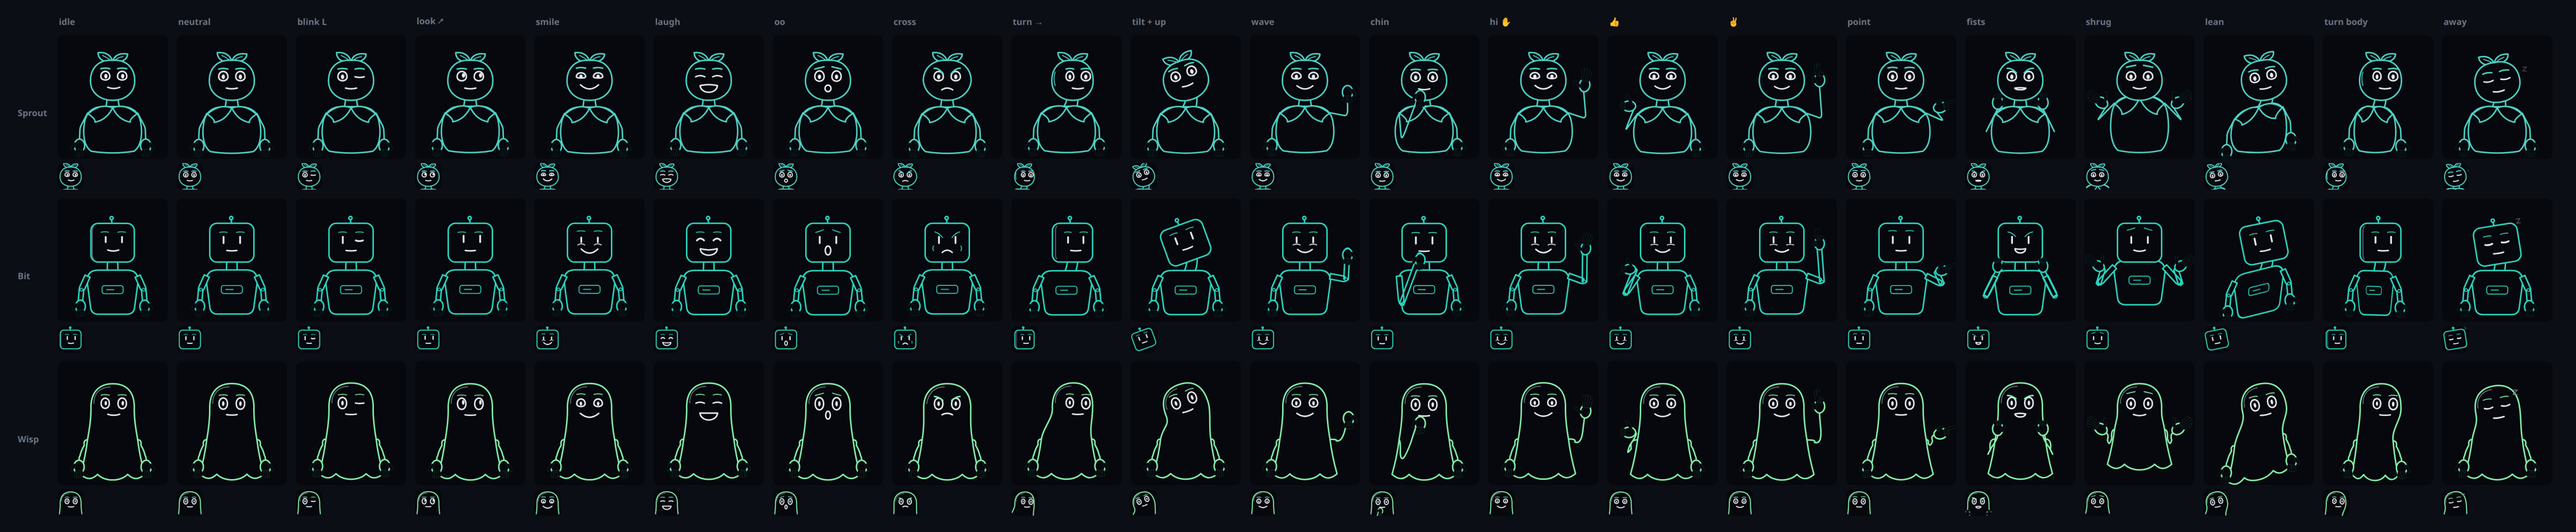
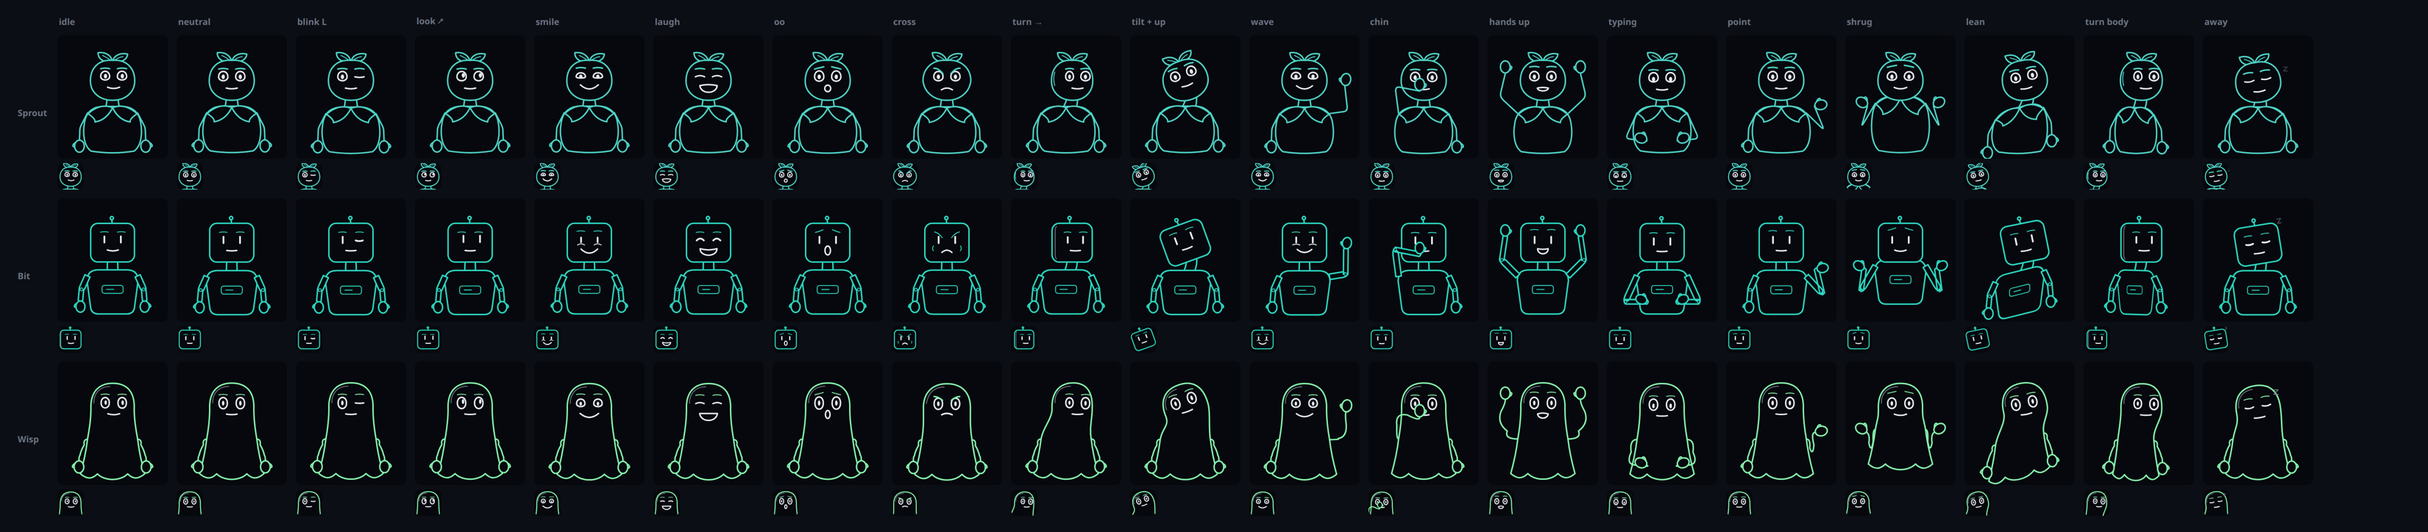
S44: hands are just hands; elbows come from the wrists
Hands drop their fingers: the hand landmarker says where a hand is and
which way it points (1 byte a hand, down from 6), drawn as a shared
mitten. At tile size a hand being there is what reads.

A desk camera mostly sees hands and seldom elbows, and the solver threw
away any wrist without its elbow, so arms rested at the sides. Now a
wrist counts on its own (from the pose or the hand landmarker), and the
stage puts a missing elbow where a two-bone arm would bend, outward and
down (rig's elbowFor/withElbows). The sheet's arm poses give wrists only.

diff --git a/web/src/shared/avatar/rig.ts b/web/src/shared/avatar/rig.ts
@@ -15,9 +15,10 @@
 //   face    = 12 × u8 (0–255 for 0–1; lookX, lookY as i8 for −1–1)
 //   arms    = 4 points (elbowL, elbowR, wristL, wristR) × x:i8 y:i8 (1/25
 //             shoulder), sent when flags & ARMS; a point at (−128, −128)
-//             wasn't seen
-//   hand    = angle:i8 (π/127) curl:5 × u8 (thumb … pinky), for the left
-//             hand when flags & HAND_L, then the right when flags & HAND_R
+//             wasn't seen (an elbow mostly isn't, at a desk: `withElbows`
+//             puts it where the arm would bend)
+//   hand    = angle:i8 (π/127), for the left hand when flags & HAND_L,
+//             then the right when flags & HAND_R
 //   shoulders = shoulderL, shoulderR × x:i8 y:i8 (1/25 shoulder), when
 //             flags & SHOULDERS
 // flags: FACE (a face was found), ARMS, HAND_L, HAND_R, SHOULDERS.
@@ -31,13 +32,12 @@ const SHOULDERS = 16;
 
 export type Point = [number, number] | null;
 
-/** A hand, as a character draws it at the wrist. */
+/** A hand, as a character draws it at the wrist: no fingers, just which
+ * way it points. */
 export interface Hand {
-  /** Which way the hand points, wrist to knuckles: radians in bust space
-   * (0 toward +x, the viewer's right; −π/2 straight up). */
+  /** Wrist to knuckles: radians in bust space (0 toward +x, the viewer's
+   * right; −π/2 straight up). */
   angle: number;
-  /** Each finger's curl, thumb to pinky: 0 straight out, 1 folded in. */
-  curl: [number, number, number, number, number];
 }
 
 export interface Rig {
@@ -127,7 +127,7 @@ export function packRig(r: Rig, look: Look): Uint8Array {
       out.push(...(p ? [i8(p[0] * 25), i8(p[1] * 25)] : [0x80, 0x80]));
     }
   }
-  for (const h of [r.handL, r.handR]) if (h) out.push(i8((wrap(h.angle) * 127) / Math.PI), ...h.curl.map(u8));
+  for (const h of [r.handL, r.handR]) if (h) out.push(i8((wrap(h.angle) * 127) / Math.PI));
   if (shoulders) for (const p of [r.shoulderL!, r.shoulderR!]) out.push(i8(p[0] * 25), i8(p[1] * 25));
   return Uint8Array.from(out);
 }
@@ -152,10 +152,8 @@ export function unpackRig(b: Uint8Array): { rig: Rig; look: Look } {
     }
   }
   const hand = (): Hand => {
-    if (b.length < p + 6) throw new Error("rig frame: cut short");
-    const angle = (s8(b[p++]) * Math.PI) / 127;
-    const curl = [0, 0, 0, 0, 0].map(() => b[p++] / 255) as Hand["curl"];
-    return { angle, curl };
+    if (b.length < p + 1) throw new Error("rig frame: cut short");
+    return { angle: (s8(b[p++]) * Math.PI) / 127 };
   };
   if (flags & HAND_L) r.handL = hand();
   if (flags & HAND_R) r.handR = hand();
@@ -208,7 +206,36 @@ export function approach(cur: Rig, want: Rig, dt: number, rate = 14): Rig {
   }
   for (const key of ["handL", "handR"] as const) {
     const a = cur[key], b = want[key];
-    out[key] = a && b ? { angle: a.angle + wrap(b.angle - a.angle) * k, curl: a.curl.map((c, i) => c + (b.curl[i] - c) * k) as Hand["curl"] } : b;
+    out[key] = a && b ? { angle: a.angle + wrap(b.angle - a.angle) * k } : b;
   }
+  return out;
+}
+
+/** An arm's upper and lower lengths, in shoulder widths. */
+const UPPER = 0.55, LOWER = 0.5;
+
+/** Where an elbow goes for a shoulder and a wrist: two bones of fixed
+ * length, bent outward and down as an arm bends (`side` +1 for the
+ * person's left, on +x). A wrist out of reach straightens the arm toward
+ * it. */
+export function elbowFor(shoulder: [number, number], wrist: [number, number], side: 1 | -1): [number, number] {
+  const dx = wrist[0] - shoulder[0], dy = wrist[1] - shoulder[1];
+  const d = Math.min(UPPER + LOWER - 1e-3, Math.max(Math.abs(UPPER - LOWER) + 1e-3, Math.hypot(dx, dy) || 1e-3));
+  const base = Math.atan2(dy, dx);
+  const bend = Math.acos((UPPER * UPPER + d * d - LOWER * LOWER) / (2 * UPPER * d));
+  const at = (a: number): [number, number] => [shoulder[0] + Math.cos(a) * UPPER, shoulder[1] + Math.sin(a) * UPPER];
+  const a = at(base + bend), b = at(base - bend);
+  // Outward first, then down.
+  const score = (e: [number, number]) => side * (e[0] - shoulder[0]) + 0.6 * (e[1] - shoulder[1]);
+  return score(a) >= score(b) ? a : b;
+}
+
+/** `r` with an elbow wherever there's a wrist but no elbow: the camera
+ * at a desk sees hands far more often than elbows. */
+export function withElbows(r: Rig): Rig {
+  if ((r.elbowL || !r.wristL) && (r.elbowR || !r.wristR)) return r;
+  const out = { ...r };
+  if (!r.elbowL && r.wristL) out.elbowL = elbowFor(r.shoulderL ?? SHOULDER_L, r.wristL, 1);
+  if (!r.elbowR && r.wristR) out.elbowR = elbowFor(r.shoulderR ?? SHOULDER_R, r.wristR, -1);
   return out;
 }

diff --git a/web/src/shared/avatar/hand.ts b/web/src/shared/avatar/hand.ts
@@ -1,89 +1,43 @@
-// A cartoon hand for any character (S44): a palm at the wrist, pointing
-// along the hand's angle, five fingers each shortened by its curl (a front
-// view: a curled finger folds toward you), the thumb on the side toward
-// the body's middle, as a raised palm shows it. With no hand seen, a
-// resting mitten pointing down. Drawn in bust space with the caller's
-// stroke and colours; a character picks a style that suits it.
+// A cartoon hand for any character (S44): a mitten at the wrist, pointing
+// the way the hand points, with a thumb on the side toward the body's
+// middle, as a raised palm shows it. No fingers: at tile size a hand
+// being there, and where, is what reads. With no hand seen, it rests
+// pointing down. Drawn in bust space with the caller's stroke and colours.
 
 import type { Hand } from "./rig";
 
 export interface HandStyle {
-  /** The palm's length, in shoulder widths (about 0.16 for a bust). */
+  /** The hand's length, in shoulder widths (about 0.16 for a bust). */
   size: number;
-  /** Separate fingers, or one mitten (fingers 2–5 together, a thumb). */
-  kind: "fingers" | "mitten";
   /** Filled with this first, so it hides what's behind it. */
   fill: string;
   stroke: string;
 }
 
-/** How much bigger than `size` a hand draws. */
+/** How much bigger than `size` a hand draws: a true-to-life one is lost
+ * at tile size. */
 const BIG = 1.5;
-
-/** Each finger: where it leaves the knuckles (across the palm, −1…1), its
- * length and its splay (radians), index to pinky; then the thumb. */
-const FINGERS = [
-  { at: 0.62, len: 0.78, splay: 0.12 },
-  { at: 0.2, len: 0.88, splay: 0.03 },
-  { at: -0.22, len: 0.8, splay: -0.06 },
-  { at: -0.6, len: 0.62, splay: -0.16 },
-];
 
 /** `side`: +1 for the person's left hand (the viewer's right), −1 for the
  * right; `hand` null for one at rest. */
 export function drawHand(g: CanvasRenderingContext2D, wrist: [number, number], hand: Hand | null, side: 1 | -1, o: HandStyle) {
-  const angle = hand ? hand.angle : Math.PI / 2;
-  const curl = hand ? hand.curl : ([0.55, 0.7, 0.7, 0.7, 0.7] as Hand["curl"]);
-  // Cartoon hands are big: a true-to-life one is lost at tile size.
-  const L = o.size * BIG, W = L * 0.86;
+  const L = o.size * BIG, W = L * 0.8;
   g.save();
   g.translate(wrist[0], wrist[1]);
-  g.rotate(angle);
-  // Hand space: +x from the wrist to the knuckles; the thumb is toward
-  // the body's middle, which is −side across a raised hand.
-  const thumb = side === 1 ? -1 : 1;
-  g.scale(1, thumb);
+  g.rotate(hand ? hand.angle : Math.PI / 2);
+  // Hand space: +x from the wrist to the fingertips; the thumb toward the
+  // body's middle, which is −side across a raised hand.
+  g.scale(1, side === 1 ? -1 : 1);
   g.strokeStyle = o.stroke;
   g.fillStyle = o.fill;
-  const lw = g.lineWidth;
-
-  const finger = (bx: number, by: number, dir: number, len: number, c: number, width: number) => {
-    // Front view: a curl folds the finger toward you, so it shortens and
-    // its tip comes back toward the palm.
-    const seen = len * (1 - 0.8 * c);
-    const tx = bx + Math.cos(dir) * seen, ty = by + Math.sin(dir) * seen;
-    g.lineWidth = width;
-    g.beginPath();
-    g.moveTo(bx, by);
-    g.lineTo(tx, ty);
-    g.stroke();
-    // A fill line down the middle, so overlaps read as separate fingers.
-    g.lineWidth = Math.max(0, width - lw * 2);
-    g.strokeStyle = o.fill;
-    g.stroke();
-    g.strokeStyle = o.stroke;
-  };
-
-  // The palm.
-  g.lineWidth = lw;
+  // The thumb first, so the mitten covers its root.
   g.beginPath();
-  g.ellipse(L * 0.5, 0, L * 0.55, W * 0.5, 0, 0, Math.PI * 2);
+  g.ellipse(L * 0.42, W * 0.42, L * 0.24, W * 0.17, 0.9, 0, Math.PI * 2);
   g.fill();
   g.stroke();
-  const fw = W * 0.26;
-  if (o.kind === "fingers") {
-    for (let i = 0; i < 4; i++) {
-      const f = FINGERS[i];
-      // The index is next to the thumb (+y in hand space).
-      finger(L * 0.92, f.at * W * 0.42, f.splay, L * f.len, curl[i + 1], fw);
-    }
-  } else {
-    // A mitten: the four fingers as one, as curled as their average.
-    const c = (curl[1] + curl[2] + curl[3] + curl[4]) / 4;
-    finger(L * 0.88, 0, 0, L * 0.7, c, W * 0.86);
-  }
-  // The thumb: out from the side of the palm, folding across it as it curls.
-  const td = 1.0 - 0.8 * curl[0];
-  finger(L * 0.35, W * 0.42, td, L * 0.62, curl[0] * 0.6, fw * 1.05);
+  g.beginPath();
+  g.ellipse(L * 0.55, 0, L * 0.5, W * 0.5, 0, 0, Math.PI * 2);
+  g.fill();
+  g.stroke();
   g.restore();
 }

diff --git a/web/src/shared/avatar/solve.ts b/web/src/shared/avatar/solve.ts
@@ -1,7 +1,9 @@
 // From what the landmarkers see to a rig (S44): the face landmarker's
 // ARKit blendshapes and head transform, the pose landmarker's shoulders,
-// elbows and wrists, and the hand landmarker's hands (which way each
-// points, how curled each finger is), as ./rig's numbers. Pure, so node tests
+// elbows and wrists, and the hand landmarker's hands (where each is and
+// which way it points), as ./rig's numbers. An elbow the camera doesn't
+// see is left out: the drawing puts it where the arm bends (rig's
+// withElbows). Pure, so node tests
 // it (web/scripts/avatar.test.mjs); ./track runs the models.
 
 import { neutral, type Hand, type Point, type Rig } from "./rig.ts";
@@ -54,28 +56,10 @@ export interface Calib {
 
 const learn = (base: number | undefined, v: number) => (base === undefined ? v : base + (v - base) * (v > base ? 0.3 : 0.003));
 
-/** A hand's knuckles, then each finger's joints out to the tip (the hand
- * landmarker's numbering): thumb, index, middle, ring, pinky. */
-const TIPS = [4, 8, 12, 16, 20];
-const BASES = [2, 5, 9, 13, 17];
-
-/** Which way `h` points and how curled each finger is, in bust space
- * (`ax` scales x for the image's aspect). */
+/** Which way `h` points, wrist to middle knuckle, in bust space (`ax`
+ * scales x for the image's aspect). */
 export function handOf(h: Mark[], ax: number): Hand {
-  const d = (a: Mark, b: Mark) => Math.hypot((a.x - b.x) * ax, a.y - b.y);
-  const w = h[0];
-  const angle = Math.atan2(h[9].y - w.y, (h[9].x - w.x) * ax);
-  const palm = d(w, h[9]) || 1e-6;
-  const curl = TIPS.map((tip, i) => {
-    if (i === 0) {
-      // The thumb: out from the index knuckle when open, tucked to it when not.
-      return clamp((0.85 - d(h[tip], h[5]) / palm) / 0.5, 0, 1);
-    }
-    // A straight finger's tip is about twice as far from the wrist as its
-    // knuckle; a folded one's about as far.
-    return clamp((1.85 - d(w, h[tip]) / (d(w, h[BASES[i]]) || 1e-6)) / 0.8, 0, 1);
-  }) as Hand["curl"];
-  return { angle, curl };
+  return { angle: Math.atan2(h[9].y - h[0].y, (h[9].x - h[0].x) * ax) };
 }
 
 /** The rig for what was seen; `null`s leave the rig neutral there. */
@@ -133,8 +117,10 @@ export function solve(s: Seen, calib: Calib = {}): Rig {
     };
     r.elbowL = at("elbowL");
     r.elbowR = at("elbowR");
-    r.wristL = r.elbowL && at("wristL");
-    r.wristR = r.elbowR && at("wristR");
+    // A wrist counts without its elbow: at a desk the elbows are mostly
+    // out of frame and the hands in it.
+    r.wristL = at("wristL");
+    r.wristR = at("wristR");
     // The shoulders themselves: tilt and turn come with where they are; a
     // shrug is a shoulder nearer its ear than usual.
     const lift = (sh: Mark, ear: Mark | undefined, key: "gapL" | "gapR") => {
@@ -167,14 +153,8 @@ export function solve(s: Seen, calib: Calib = {}): Rig {
     const side = left ? "L" : "R";
     if (r[`hand${side}`]) continue;
     r[`hand${side}`] = handOf(h, ax);
-    // A hand seen where the pose lost the wrist: the wrist is the hand's,
-    // and the elbow a guess between it and the shoulder, sagging.
-    if (toBust && !r[`wrist${side}`]) {
-      const w = toBust(h[0]);
-      const sx = left ? 0.5 : -0.5;
-      r[`wrist${side}`] = w;
-      r[`elbow${side}`] ??= [(sx + w[0]) / 2 + (left ? 0.18 : -0.18), w[1] / 2 + 0.3];
-    }
+    // A hand seen where the pose lost the wrist: the wrist is the hand's.
+    if (toBust && !r[`wrist${side}`]) r[`wrist${side}`] = toBust(h[0]);
   }
   return r;
 }
@@ -228,12 +208,12 @@ export class RigFilter {
       if (typeof v === "number") (out as Record<string, unknown>)[k] = run(k, v);
       else if (Array.isArray(v)) (out as Record<string, unknown>)[k] = [run(`${k}.x`, v[0]), run(`${k}.y`, v[1])];
       else if (v && typeof v === "object") {
-        // A hand: its angle (unwrapped so it doesn't spin at ±π) and curls.
+        // A hand: its angle, unwrapped so it doesn't spin at ±π.
         const prev = this.angles.get(k);
         const a = prev === undefined ? v.angle : prev + Math.atan2(Math.sin(v.angle - prev), Math.cos(v.angle - prev));
         const angle = run(`${k}.a`, a);
         this.angles.set(k, angle);
-        (out as Record<string, unknown>)[k] = { angle, curl: v.curl.map((c, i) => run(`${k}.${i}`, c)) };
+        (out as Record<string, unknown>)[k] = { angle };
       } else if (v === null) {
         for (const key of [...this.f.keys()]) if (key.startsWith(`${k}.`)) this.f.delete(key);
         this.angles.delete(k);

diff --git a/web/src/shared/avatar/sheet.ts b/web/src/shared/avatar/sheet.ts
@@ -18,31 +18,27 @@ const POSES = [
   pose("cross", (r) => Object.assign(r, { face: true, browDown: 1, cheekPuff: 0.8 })),
   pose("turn →", (r) => Object.assign(r, { face: true, yaw: 0.6, x: 0.12 })),
   pose("tilt + up", (r) => Object.assign(r, { face: true, roll: 0.35, pitch: 0.35 })),
+  // Arms by wrist alone, as a desk camera sees them: the elbows are the
+  // stage's (rig's withElbows).
   pose("wave", (r, t) =>
-    Object.assign(r, { face: true, smile: 0.7, elbowL: [0.85, 0.05], wristL: [0.95 + Math.sin(t * 6) * 0.15, -0.55], elbowR: null, wristR: null }),
+    Object.assign(r, { face: true, smile: 0.7, wristL: [0.95 + Math.sin(t * 6) * 0.12, -0.55], handL: { angle: -Math.PI / 2 + Math.sin(t * 6) * 0.3 } }),
   ),
-  pose("chin", (r) => Object.assign(r, { face: true, elbowR: [-0.45, 0.55], wristR: [-0.08, -0.45], pitch: -0.1 })),
-  pose("hi ✋", (r, t) =>
+  pose("chin", (r) => Object.assign(r, { face: true, wristR: [-0.08, -0.45], handR: { angle: -Math.PI / 2 }, pitch: -0.1 })),
+  pose("hands up", (r) =>
     Object.assign(r, {
-      face: true, smile: 0.8, elbowL: [0.85, 0.1], wristL: [0.95, -0.45],
-      handL: { angle: -Math.PI / 2 + Math.sin(t * 6) * 0.35, curl: [0, 0, 0, 0, 0] },
+      face: true, jawOpen: 0.5, browUp: 0.9,
+      wristL: [0.75, -0.8], handL: { angle: -Math.PI / 2 }, wristR: [-0.75, -0.8], handR: { angle: -Math.PI / 2 },
     }),
   ),
-  pose("👍", (r) => Object.assign(r, { face: true, smile: 0.6, elbowR: [-0.75, 0.35], wristR: [-0.55, -0.15], handR: { angle: Math.PI, curl: [0, 1, 1, 1, 1] } })),
-  pose("✌", (r) => Object.assign(r, { face: true, smile: 0.5, elbowL: [0.8, 0.1], wristL: [0.75, -0.55], handL: { angle: -Math.PI / 2, curl: [0.9, 0, 0, 1, 1] } })),
-  pose("point", (r) => Object.assign(r, { face: true, browUp: 0.5, elbowL: [0.85, 0.15], wristL: [1.2, -0.1], handL: { angle: -0.2, curl: [0.8, 0, 1, 1, 1] } })),
-  pose("fists", (r) =>
-    Object.assign(r, {
-      face: true, browDown: 0.8, jawOpen: 0.3,
-      elbowL: [0.7, 0.4], wristL: [0.45, -0.1], handL: { angle: -Math.PI / 2, curl: [0.7, 1, 1, 1, 1] },
-      elbowR: [-0.7, 0.4], wristR: [-0.45, -0.1], handR: { angle: -Math.PI / 2, curl: [0.7, 1, 1, 1, 1] },
-    }),
+  pose("typing", (r) =>
+    Object.assign(r, { face: true, pitch: -0.15, lookY: -0.6, wristL: [0.3, 0.75], handL: { angle: -0.4 }, wristR: [-0.3, 0.75], handR: { angle: Math.PI + 0.4 } }),
   ),
+  pose("point", (r) => Object.assign(r, { face: true, browUp: 0.5, wristL: [1.05, -0.15], handL: { angle: -0.2 } })),
   pose("shrug", (r) =>
     Object.assign(r, {
       face: true, browUp: 0.8, browInnerUp: 0.6, smile: 0.2, shoulderL: [0.5, -0.2], shoulderR: [-0.5, -0.2],
-      elbowL: [0.85, 0.15], wristL: [1.05, -0.15], handL: { angle: -0.6, curl: [0, 0, 0, 0, 0] },
-      elbowR: [-0.85, 0.15], wristR: [-1.05, -0.15], handR: { angle: -Math.PI + 0.6, curl: [0, 0, 0, 0, 0] },
+      wristL: [1.05, -0.15], handL: { angle: -0.6 },
+      wristR: [-1.05, -0.15], handR: { angle: -Math.PI + 0.6 },
     }),
   ),
   pose("lean", (r) => Object.assign(r, { face: true, roll: 0.2, x: 0.1, shoulderL: [0.48, -0.12], shoulderR: [-0.48, 0.12] })),

diff --git a/web/src/shared/avatar/stage.ts b/web/src/shared/avatar/stage.ts
@@ -6,7 +6,7 @@
 // and dozes while its person is away.
 
 import { HEAD_R, HEAD_Y, type Character } from "./character";
-import { approach, idle, neutral, type Look, type Rig } from "./rig";
+import { approach, idle, neutral, withElbows, type Look, type Rig } from "./rig";
 
 /** The colours a person picks from, as theme variables. */
 export const COLOURS = ["--accent", "--teal", "--ok", "--warn", "--info", "--danger", "--fg"] as const;
@@ -104,7 +104,7 @@ function paint(v: View, t: number, dt: number) {
   g.lineJoin = "round";
   g.lineCap = "round";
   const look = src.look;
-  v.character(look.character).draw(g, v.cur, {
+  v.character(look.character).draw(g, withElbows(v.cur), {
     size: v.size,
     colour: of(COLOURS[look.colour % COLOURS.length]),
     ink: of("--fg"),

diff --git a/web/src/shared/avatar/characters/wisp.ts b/web/src/shared/avatar/characters/wisp.ts
@@ -176,7 +176,7 @@ export const wisp: Character = {
       g.quadraticCurveTo(ex, ey, (ex + wx) / 2, (ey + wy) / 2);
       g.quadraticCurveTo(wx - Math.cos(angle) * 0.08, wy - Math.sin(angle) * 0.08, wx, wy);
       g.stroke();
-      drawHand(g, [wx, wy], hand, side as 1 | -1, { size: 0.16, kind: "fingers", fill: s.fill, stroke: s.colour });
+      drawHand(g, [wx, wy], hand, side as 1 | -1, { size: 0.16, fill: s.fill, stroke: s.colour });
     }
 
     if (s.away) {

diff --git a/web/src/shared/avatar/characters/bit.ts b/web/src/shared/avatar/characters/bit.ts
@@ -36,7 +36,7 @@ function arm(g: CanvasRenderingContext2D, side: 1 | -1, shoulder: NonNullable<Po
   g.arc(ex, ey, 0.028, 0, Math.PI * 2);
   g.stroke();
   g.lineWidth = s.stroke;
-  drawHand(g, [wx, wy], hand, side, { size: 0.15, kind: "fingers", fill: s.fill, stroke: s.colour });
+  drawHand(g, [wx, wy], hand, side, { size: 0.15, fill: s.fill, stroke: s.colour });
 }
 
 export const bit: Character = {

diff --git a/web/src/shared/avatar/characters/sprout.ts b/web/src/shared/avatar/characters/sprout.ts
@@ -210,7 +210,7 @@ export const sprout: Character = {
       g.quadraticCurveTo(ex, ey, ex * 0.8 + wx * 0.2, ey * 0.8 + wy * 0.2);
       g.lineTo(wx, wy);
       g.stroke();
-      drawHand(g, [wx, wy], hand, side, { size: 0.16, kind: "fingers", fill: s.fill, stroke: s.colour });
+      drawHand(g, [wx, wy], hand, side, { size: 0.16, fill: s.fill, stroke: s.colour });
     }
 
     if (s.away) {

diff --git a/spikes/s44-rig-avatars/README.md b/spikes/s44-rig-avatars/README.md
@@ -21,7 +21,8 @@ No picture of you leaves the page.
 | Trackers: MediaPipe face landmarker (blendshapes + transform) and pose landmarker lite | `web/src/shared/avatar/track.ts`, `cam.ts` |
 | Characters: Codex drafts to `character.ts`'s contract, then a final-art pass (Codex at high effort, briefed with the contact sheet and a style bar), proportions and hand size tuned | `web/src/shared/avatar/characters/` |
 | Shoulders: a point each, where they really are: tilted with the shoulder line, closer together as the body turns (measured in their true width from the pose's world landmarks, so the rest of the body doesn't grow), lifted by a shrug (each shoulder nearer its ear than its learnt rest); 4 bytes. Characters hang their arms, collar and neck from them | `solve.ts` (`Calib`), `rig.ts` |
-| Hands: the hand landmarker (21 points a hand) → which way each points and each finger's curl, 6 bytes a hand; given to the nearer pose wrist, and standing in for a wrist the pose lost; drawn by a shared cartoon hand | `solve.ts` (`handOf`), `web/src/shared/avatar/hand.ts` |
+| Hands: the hand landmarker gives where each hand is and which way it points (1 byte a hand, no fingers: at tile size a hand being there is what reads); given to the nearer pose wrist, standing in for a wrist the pose lost; drawn as a shared mitten | `solve.ts` (`handOf`), `web/src/shared/avatar/hand.ts` |
+| Elbows: a desk camera rarely sees them, so a wrist counts without one and the stage puts the elbow where a two-bone arm bends, outward and down (`withElbows`) | `rig.ts` (`elbowFor`) |
 | Stage: bust space on a canvas, the head-only crop, one animation loop for every avatar | `web/src/shared/avatar/stage.ts`, `view.tsx` |
 | Contact sheet, for tuning characters by eye (`pnpm exec vite`, /avatar-sheet.html) | `web/avatar-sheet.html`, `web/src/shared/avatar/sheet.ts` |
 
